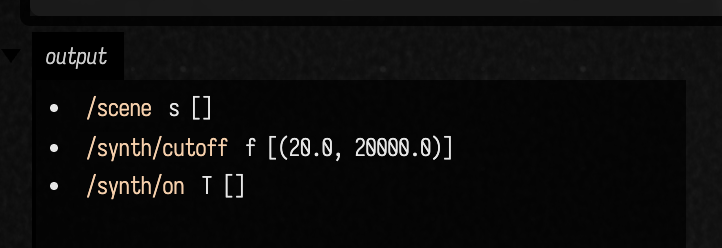
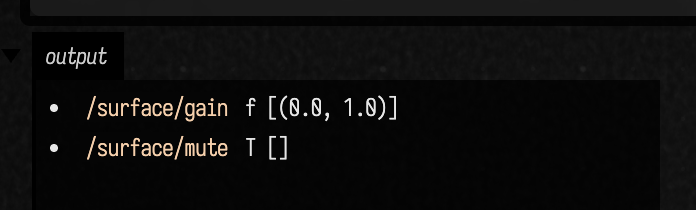
oscquery: capture the published controls; open the demo in the offline viewer
"Field controls, published" is now a runner fence: the box shows its GAIN
slider and MUTE checkbox and lists the /surface paths the service serves for
them (published_controls.png). The demo sentence links the offline viewer on
assets/oscquery_demo/metadata.edn, and oscquery.md joins CARRIER_PAGES. The
two earlier captures were re-taken in the same run.

diff --git a/tools/check_doc_offline_links.py b/tools/check_doc_offline_links.py
@@ -101,6 +101,7 @@ CARRIER_PAGES = {
     "public/docs/lua.md",
     "public/docs/mesh_examples.md",
     "public/docs/nano_examples.md",
+    "public/docs/oscquery.md",
     # Added 2026-10-03: both new pages link their starting points. Shape checked:
     # `offline.html?file=assets/agent_transcripts/<name>/metadata.edn`, no leading slash.
     "public/docs/open_dlss_nr.md",

diff --git a/public/docs/oscquery.md b/public/docs/oscquery.md
@@ -10,8 +10,9 @@ ossia score and the python and JavaScript libraries all speak it.
 list, show as controls and set. A box can also open another program's OSCQuery service and read,
 set and follow its parameters.
 
-Open `public/docs/assets/oscquery_demo/` as a document to try everything on this page with
-nothing else running: box 1 publishes, and boxes 3 and 4 connect back to it as a remote.
+[Open the OSCQuery demo ↗](offline.html?file=assets/oscquery_demo/metadata.edn) to read its
+boxes, or open `public/docs/assets/oscquery_demo/` as a document in Field to run them with nothing
+else running: box 1 publishes, and boxes 3 and 4 connect back to it as a remote.
 
 ## Publishing parameters
 
@@ -88,13 +89,18 @@ analysis results.
 `controls` builds a [control group](visualizers.md#build-one-surface-with-mixed-control-types) whose sliders and checkboxes are also OSCQuery
 parameters, under one prefix:
 
-```diffstatic {data-lang=kotlin}
+```diffstatic_runner {data-lang=kotlin screenshot="assets/oscquery/published_controls.png" capture="box" open-outputs="true" embed=true w="760" h="120" wait="2.0" timeout="90" name="oscquery-published-controls" alt="The box's controls channel with a GAIN slider at 0.5 and an unchecked MUTE checkbox, and below it the two paths the service now lists for them, /surface/gain and /surface/mute"}
+import afield.oscquery.*
+
 var gain = 0.5
 var mute = false
 oscQuery("My piece").controls("/surface") {
     slider("gain", 0.0, 1.0, initialValue = gain) { gain = it }
     checkbox("mute", mute) { mute = it }
 }
+
+val published = oscQueryRemote("127.0.0.1", 9020).params.filter { it.path.startsWith("/surface") }
+markdown(published.joinToString("\n") { "- `${it.path}` ${it.type} ${it.range}" })
 ```
 
 Dragging the slider in Field runs the callback and sends the new value to every listening
